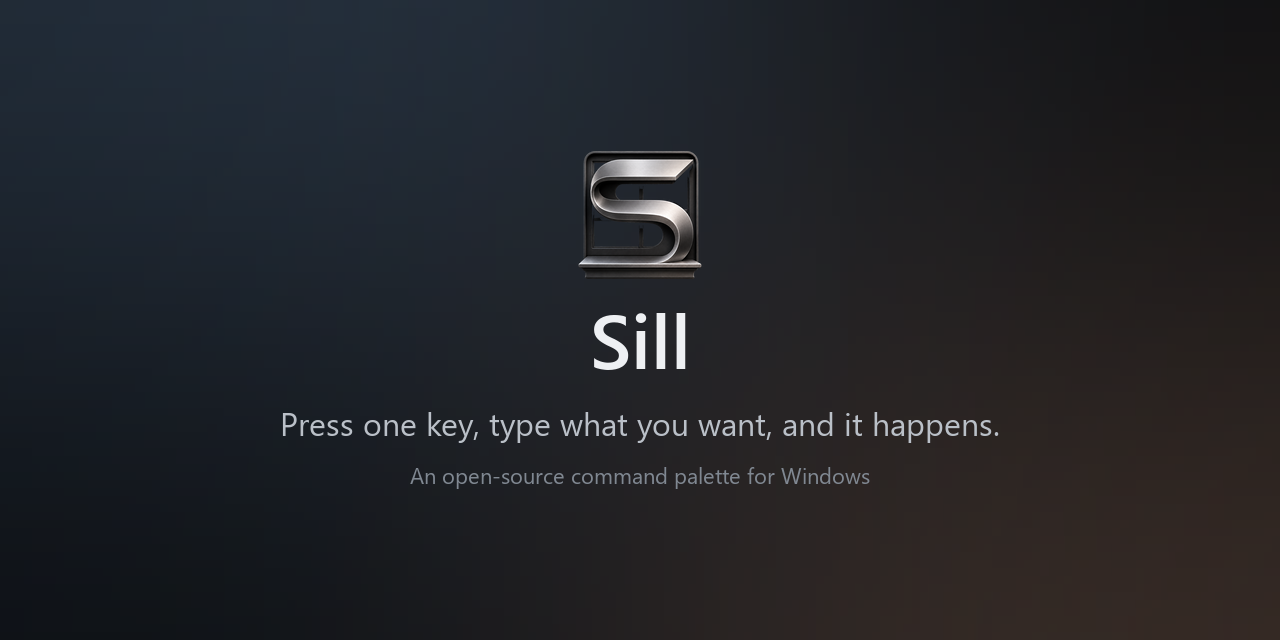
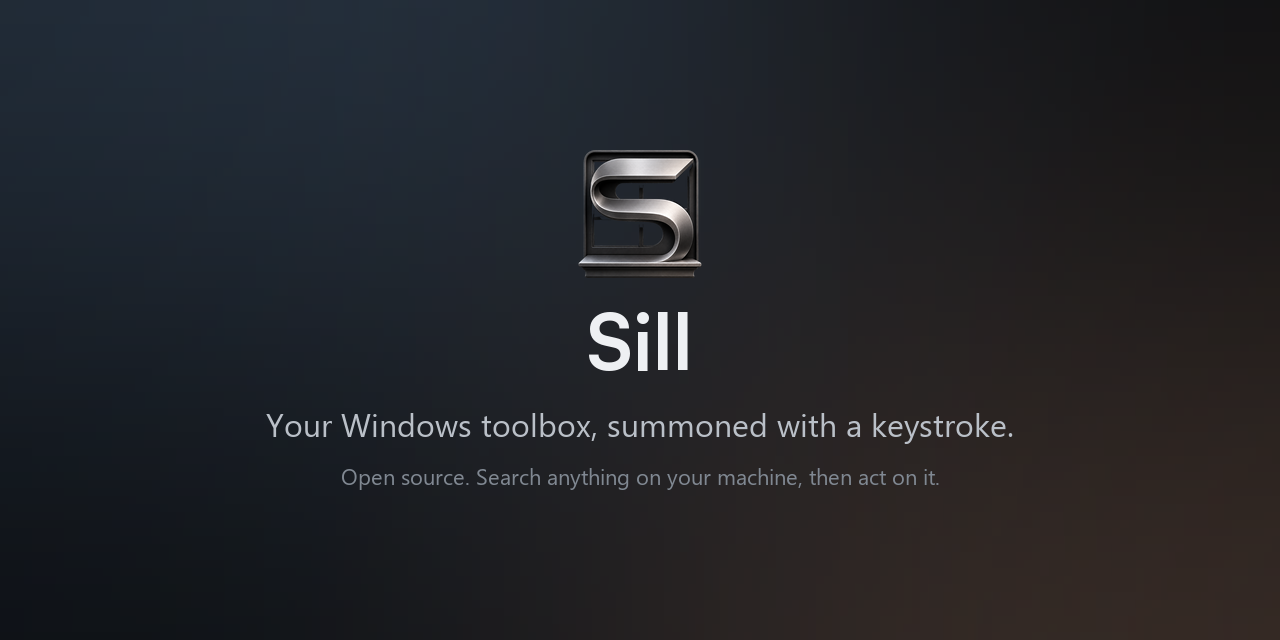
The page opens on what Sill is for, and the card wears its own face
The headline was "Press one key, type what you want, and it happens", which
could have described almost any program and never said what happens. "Your
Windows toolbox, summoned with a keystroke" says the thing it is: a box of
tools you already needed, reachable without going to find them.

The line under it stops repeating the headline and carries what the headline
cannot: that finding something is only half of it, that speech to text runs on
your own machine, and that the model behind the AI is yours to choose.

The name on the social card is set in Satoshi, the face the launcher itself
uses, rather than in the system font. It ships as a variable `.woff2` that
Pillow cannot open, so it is converted to a TrueType in memory and never
written out: the licence is careful about the font file being made available,
and an image rendered with a face does not contain that face. A clone that has
not fetched the font, or has no fontTools, falls back to the system font rather
than failing.

diff --git a/scripts/shoot-compose.py b/scripts/shoot-compose.py
@@ -19,6 +19,7 @@ ROOT = Path(__file__).resolve().parent.parent
 RAW = ROOT / "docs" / "media" / "raw"
 OUT = ROOT / "docs" / "media"
 MASTER = ROOT / "src-tauri" / "icons" / "master.png"
+FACE = ROOT / "src" / "lib" / "theme" / "fonts" / "Satoshi-Variable.woff2"
 
 # The primary display the shoot runs on.
 SCREEN = (2560, 1440)
@@ -68,6 +69,44 @@ def logo() -> Image.Image:
     return square.resize((512, 512), Image.LANCZOS)
 
 
+def wordmark(size: int) -> ImageFont.FreeTypeFont:
+    """The name in the face the launcher itself is set in.
+
+    Satoshi ships as a variable `.woff2`, which Pillow cannot open, so it is
+    converted to a TrueType in memory. Nothing is written to disk: the licence
+    is careful about the font file being made available, and an image rendered
+    with a face does not contain that face.
+
+    The file arrives per machine with `npm run fonts` and is not in the
+    repository, so a clone that has not fetched it falls back rather than
+    failing. The card is still a card in Segoe UI.
+    """
+    if not FACE.exists():
+        return font(size)
+
+    import io
+
+    try:
+        from fontTools.ttLib import TTFont
+    except ImportError:
+        # The conversion needs fontTools and brotli. Composing a card is not
+        # worth a hard dependency, and the fallback is a card that still reads.
+        print("  (fontTools is not installed; the name falls back to Segoe UI)")
+        return font(size)
+
+    face = TTFont(FACE)
+    face.flavor = None
+    buf = io.BytesIO()
+    face.save(buf)
+    buf.seek(0)
+
+    drawn = ImageFont.truetype(buf, size)
+    # The axis runs 300 to 900 and defaults to the top of it. A wordmark at 900
+    # is a shout; Bold is the weight the interface uses for a heading.
+    drawn.set_variation_by_name("Bold")
+    return drawn
+
+
 def font(size: int, weight: str = "semibold") -> ImageFont.FreeTypeFont:
     # Windows ships Segoe UI Variable; rendering an image with it is ordinary
     # use of a system font and nothing is redistributed.
@@ -98,9 +137,9 @@ def social(mark: Image.Image) -> Image.Image:
 
     side = 128
     lines = [
-        ("Sill", font(76), (238, 240, 243), 42),
-        ("Press one key, type what you want, and it happens.", font(32, "regular"), (186, 192, 200), 24),
-        ("An open-source command palette for Windows", font(22, "regular"), (128, 136, 146), 0),
+        ("Sill", wordmark(78), (238, 240, 243), 42),
+        ("Your Windows toolbox, summoned with a keystroke.", font(32, "regular"), (186, 192, 200), 24),
+        ("Open source. Search anything on your machine, then act on it.", font(22, "regular"), (128, 136, 146), 0),
     ]
 
     # Ink heights, so a line with no descender does not leave a bigger gap

diff --git a/README.md b/README.md
@@ -6,13 +6,14 @@
 <h1 align="center">Sill</h1>
 
 <p align="center">
-  <strong>Press one key, type what you want, and it happens.</strong>
+  <strong>Your Windows toolbox, summoned with a keystroke.</strong>
 </p>
 
 <p align="center">
-  An open-source command palette for Windows. Apps, files, settings,
-  clipboard history, snippets, window control, on-device speech to text
-  and AI, from one search field. Runs Raycast extensions.
+  An open-source command palette. Search apps, files, settings, windows,
+  clipboard history and snippets, then act on what you find without reaching
+  for the mouse. Speech to text runs on your own machine, the AI provider is
+  yours to pick, and Raycast extensions run unmodified.
 </p>
 
 <p align="center">
